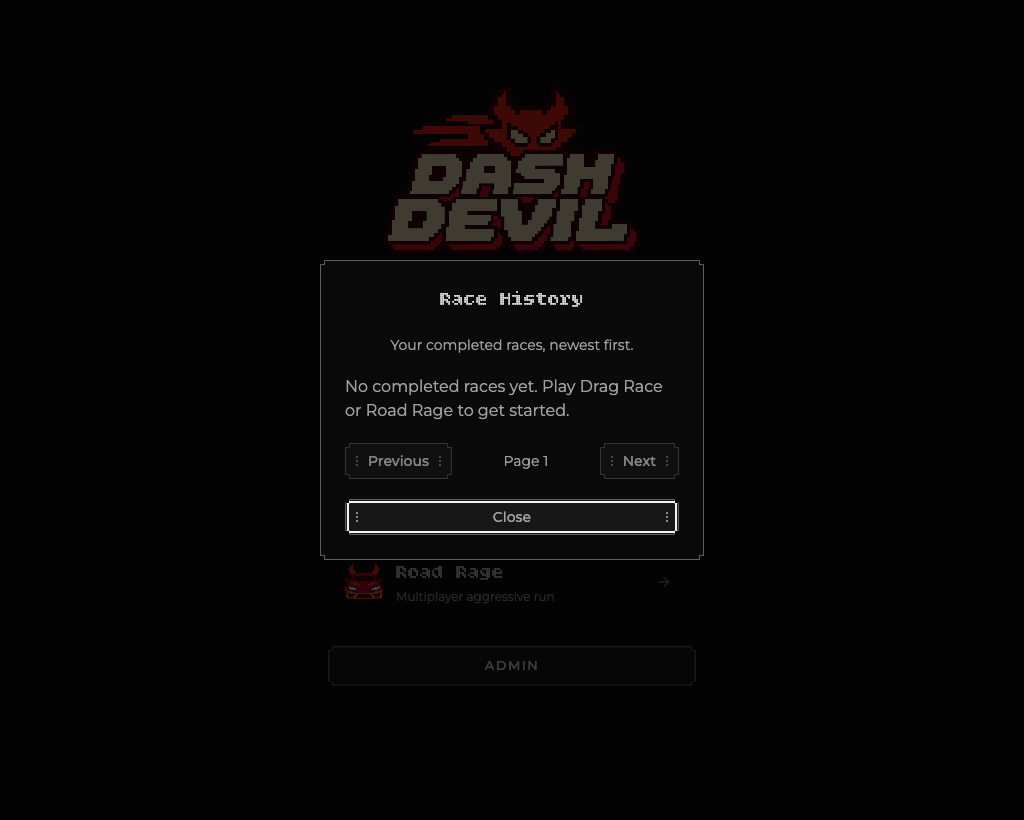
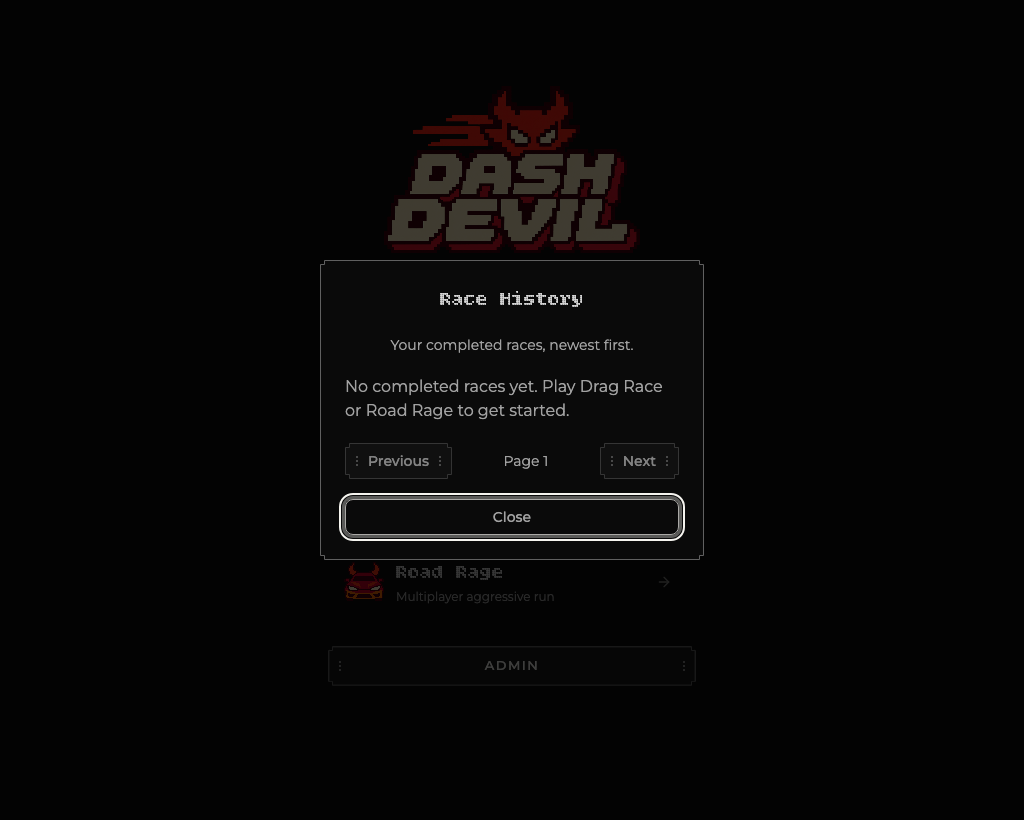
Preserve borderless and circular controls and refresh screenshots

Changed region(s): [[0.3125, 0.6098, 0.6875, 0.6707], [0.3438, 0.5793, 0.6562, 0.6098]]

diff --git a/apps/client/src/index.css b/apps/client/src/index.css
@@ -628,10 +628,18 @@ h6,
   .arcade-action,
   .compact-action,
   .chat-action,
-  .admin-back,
-  .admin-icon-button,
+  .admin-icon-button:not(.admin-close),
   .admin-button:not(:where(.admin-primary, .admin-destructive)),
-  [data-variant="multiplayer"]:not(:where(.account-trigger, .account-dropdown *, .room-admission *))
+  [data-variant="multiplayer"]:not(
+    :where(
+      .account-trigger,
+      .account-dropdown *,
+      .room-admission *,
+      .rounded-full,
+      .border-transparent,
+      .border-0
+    )
+  )
 ) {
   --dot-inset: 10px;
   padding-inline: 22px;
@@ -646,7 +654,7 @@ h6,
     left var(--dot-inset) center,
     right var(--dot-inset) center;
 }
-button:is(.arcade-icon, .admin-icon-button) {
+button:is(.arcade-icon, .admin-icon-button:not(.admin-close)) {
   --dot-inset: 3px;
   padding-inline: 0;
 }
@@ -654,10 +662,18 @@ button:is(.arcade-icon, .admin-icon-button) {
   .arcade-action,
   .compact-action,
   .chat-action,
-  .admin-back,
   .admin-button,
-  .admin-icon-button,
-  [data-variant="multiplayer"]:not(:where(.account-trigger, .account-dropdown *, .room-admission *)),
+  .admin-icon-button:not(.admin-close),
+  [data-variant="multiplayer"]:not(
+    :where(
+      .account-trigger,
+      .account-dropdown *,
+      .room-admission *,
+      .rounded-full,
+      .border-transparent,
+      .border-0
+    )
+  ),
   [data-slot="dialog-content"],
   .stepped-panel,
   .chat-panel,
@@ -685,10 +701,18 @@ button:is(.arcade-icon, .admin-icon-button) {
   .arcade-action,
   .compact-action,
   .chat-action,
-  .admin-back,
   .admin-button,
-  .admin-icon-button,
-  [data-variant="multiplayer"],
+  .admin-icon-button:not(.admin-close),
+  [data-variant="multiplayer"]:not(
+    :where(
+      .account-trigger,
+      .account-dropdown *,
+      .room-admission *,
+      .rounded-full,
+      .border-transparent,
+      .border-0
+    )
+  ),
   .mode-selector,
   .race-view canvas
 ):focus-visible {

diff --git a/apps/client/src/screens/MultiplayerView.tsx b/apps/client/src/screens/MultiplayerView.tsx
@@ -306,7 +306,7 @@ export function MultiplayerView({
                 size="bare"
                 ref={backButton}
                 type="button"
-                className="arcade-action arcade-icon grid h-14 flex-[0_0_44px] place-items-center rounded-[12px] text-neutral-400 enabled:hover:bg-neutral-800 enabled:hover:text-neutral-50 [@media(max-width:520px)]:basis-9 [&_svg]:size-8 [&_svg]:stroke-[1.5]"
+                className="grid h-14 flex-[0_0_44px] place-items-center rounded-[12px] text-neutral-400 enabled:hover:bg-neutral-800 enabled:hover:text-neutral-50 [@media(max-width:520px)]:basis-9 [&_svg]:size-8 [&_svg]:stroke-[1.5]"
                 aria-label={inRoom ? "Leave" : "Back"}
                 disabled={!inRoom && pending}
                 onClick={inRoom ? requestLeave : onBack}

diff --git a/apps/client/src/components/GameWorldView.tsx b/apps/client/src/components/GameWorldView.tsx
@@ -38,7 +38,7 @@ export function GameWorldView({
             <Button
               variant="ghost"
               size="icon"
-              className="arcade-action arcade-icon size-11 rounded-[10px] text-neutral-300"
+              className="size-11 rounded-[10px] text-neutral-300"
               onClick={onBack}
               aria-label="Back"
             >

diff --git a/apps/client/src/components/Chat.tsx b/apps/client/src/components/Chat.tsx
@@ -465,7 +465,6 @@ function ChatPanel({
                 <Button
                   variant="ghost"
                   size="icon"
-                  className="arcade-action arcade-icon"
                   onClick={() => setPeer(undefined)}
                   aria-label="Back to conversations"
                 >

diff --git a/apps/client/src/screens/LoginScreen.tsx b/apps/client/src/screens/LoginScreen.tsx
@@ -124,7 +124,7 @@ export function LoginScreen({
         <Button
           disabled={busy}
           type="button"
-          variant={temporary ? "text" : "multiplayer"}
+          variant="text"
           onClick={() => {
             if (temporary)
               void onLogout().catch((failure: unknown) =>
